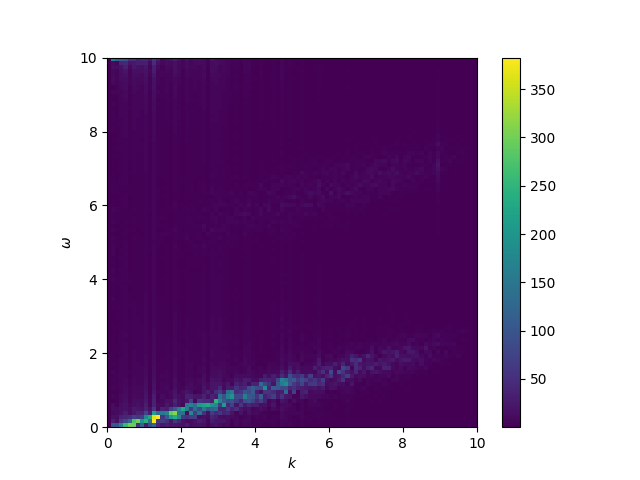
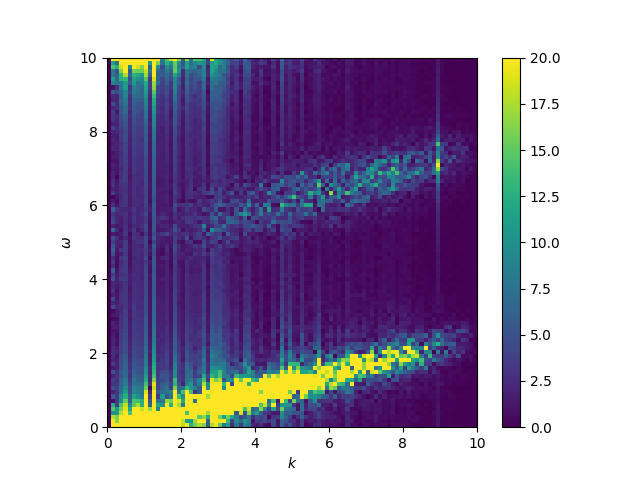
cleaning fft.py script

diff --git a/diagnostics/h5fft.py b/diagnostics/h5fft.py
@@ -146,40 +146,7 @@ for i in range(0, counter):
     Ex_dummy_fft =  []
     Ex2Anim(filename_vec, i, Ex_dummy_fft)
     snapshots_Ex.append(Ex_dummy_fft[10])
-# print(filename_vec)
 
-print(snapshots_Ex[0])
-
-print(len(snapshots_Ex))
-print(len(snapshots_Ex[0]))
-
-
-# [i][j][k] ; i - time, j - y cell, k - x cell
-
-# print(len(snapshots_Ex))
-# print("***************************")
-# print(len(snapshots_Ex[1]))
-# print("***************************")
-# print(len(snapshots_Ex[0][1]))
-# print("***************************")
-# print(len(snapshots_Ex[0][10]))
-# print("***************************")
-# print(len(snapshots_Ex))
-
-
-# xfield_Ex_wind = []
-
-# for i in range(0, len(snapshots_Ex)):
-#     xfield_Ex_wind.append(snapshots_Ex[i][10])
-
-# # print(xfield_Ex_wind[0])
-# # print(xfield_Ex_wind[10])
-
-# # plt.plot(xfield_Ex_wind[0])
-# # plt.plot(xfield_Ex_wind[10])
-# # plt.plot(xfield_Ex_wind[20])
-# # plt.plot(xfield_Ex_wind[30])
-# # plt.savefig("ex_test.png")
 
 fftSol = np.abs(np.fft.fft2(snapshots_Ex))
 
@@ -195,27 +162,9 @@ timefrequencies = np.fft.fftfreq(len(snapshots_Ex), d=dtime)
 kmax = spatialfrequencies.max()
 wmax = timefrequencies.max()
 
-# print("kmax")
-# print(kmax)
-
-# print("wmax")
-# print(wmax*1e-9)
-
-
-
-# # print(dspatial)
-# # print(1./dspatial)
-
-# # print("************")
-
-# # print(dtime)
-# # print(1./dtime)
-
-# # print("omega")
-# # print(timefrequencies)
 
 index_vec = round(len(fftSol[1, :])/2)
-c = plt.imshow(fftSol[::-1, :-index_vec], origin="lower", extent=[0, 10, 0, 10])
+c = plt.imshow(fftSol[::-1, :-index_vec], origin="lower", extent=[0, 10, 0, 10], vmin=0, vmax=20)
 plt.colorbar(c)
 plt.xlabel(r'$k $')
 plt.ylabel(r'$\omega$')
